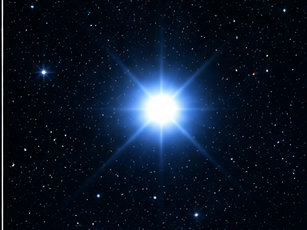
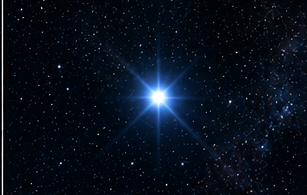
Swap Sirius's apparent/10pc source images to fix size mismatch
The previous zoom-factor-only fix wasn't visually strong enough — the
two source crops were too close in size for the shrink to read
clearly. Swapping which crop is used for which state (the visually
larger one for apparent, smaller for 10pc) makes the brightness drop
obvious, matching every other star's pair.

diff --git a/index.html b/index.html
@@ -339,7 +339,7 @@
 
   var STARS = [
     { id:"sun",        name:"태양",     distanceLabel:"0.000005 pc (1 AU)", apparent:-26.8, absolute:4.8,  pos:{x:15, y:36}, zoom:0.55, zone:"near" },
-    { id:"sirius",     name:"시리우스", distanceLabel:"2.64 pc",            apparent:-1.5,  absolute:1.4,  pos:{x:20, y:70}, zoom:0.45, zone:"near" },
+    { id:"sirius",     name:"시리우스", distanceLabel:"2.64 pc",            apparent:-1.5,  absolute:1.4,  pos:{x:20, y:70}, zoom:0.65, zone:"near" },
     { id:"deneb",      name:"데네브",   distanceLabel:"802 pc",             apparent:1.3,   absolute:-8.7, pos:{x:89, y:28}, zoom:2.0,  zone:"far"  },
     { id:"betelgeuse", name:"베텔게우스", distanceLabel:"197 pc",           apparent:0.5,   absolute:-5.1, pos:{x:60, y:66}, zoom:1.6,  zone:"far"  },
     { id:"polaris",    name:"북극성",   distanceLabel:"133 pc",             apparent:2.1,   absolute:-3.7, pos:{x:89, y:80}, zoom:1.3,  zone:"far"  }
